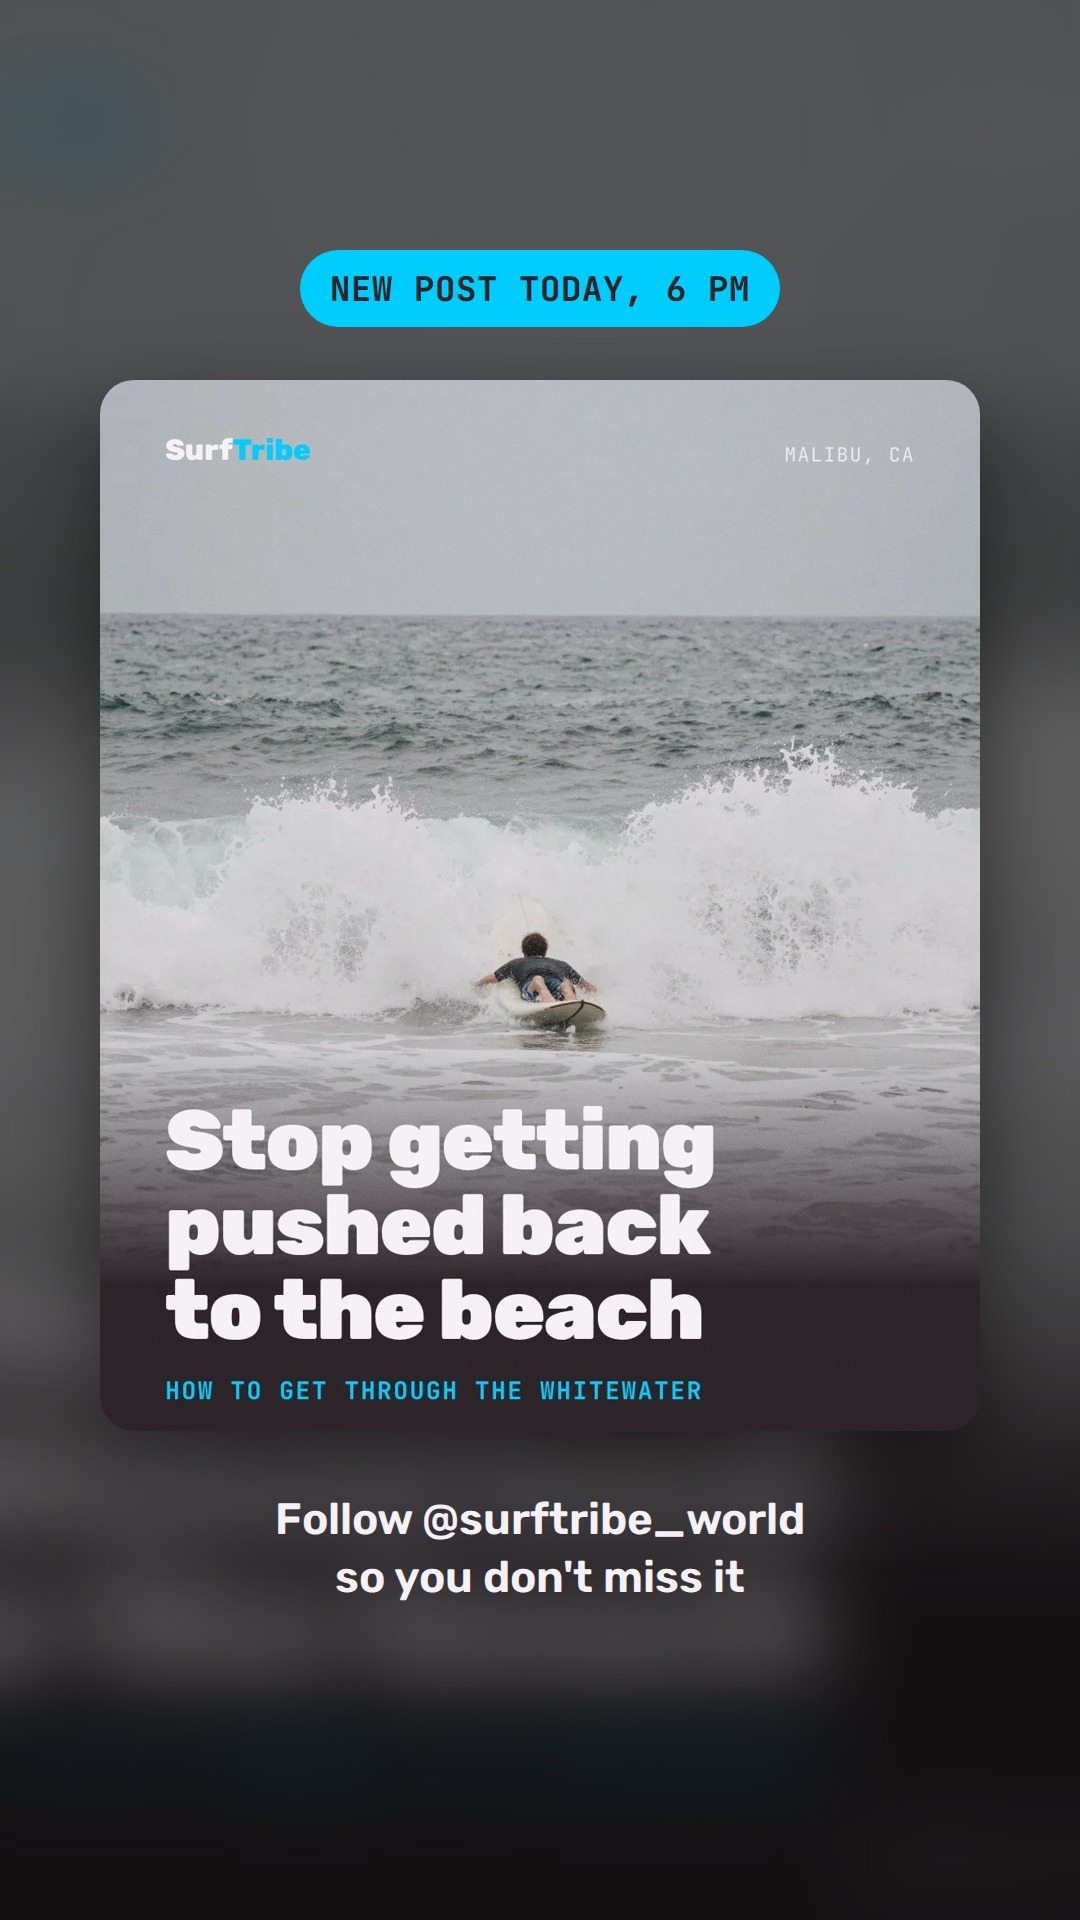
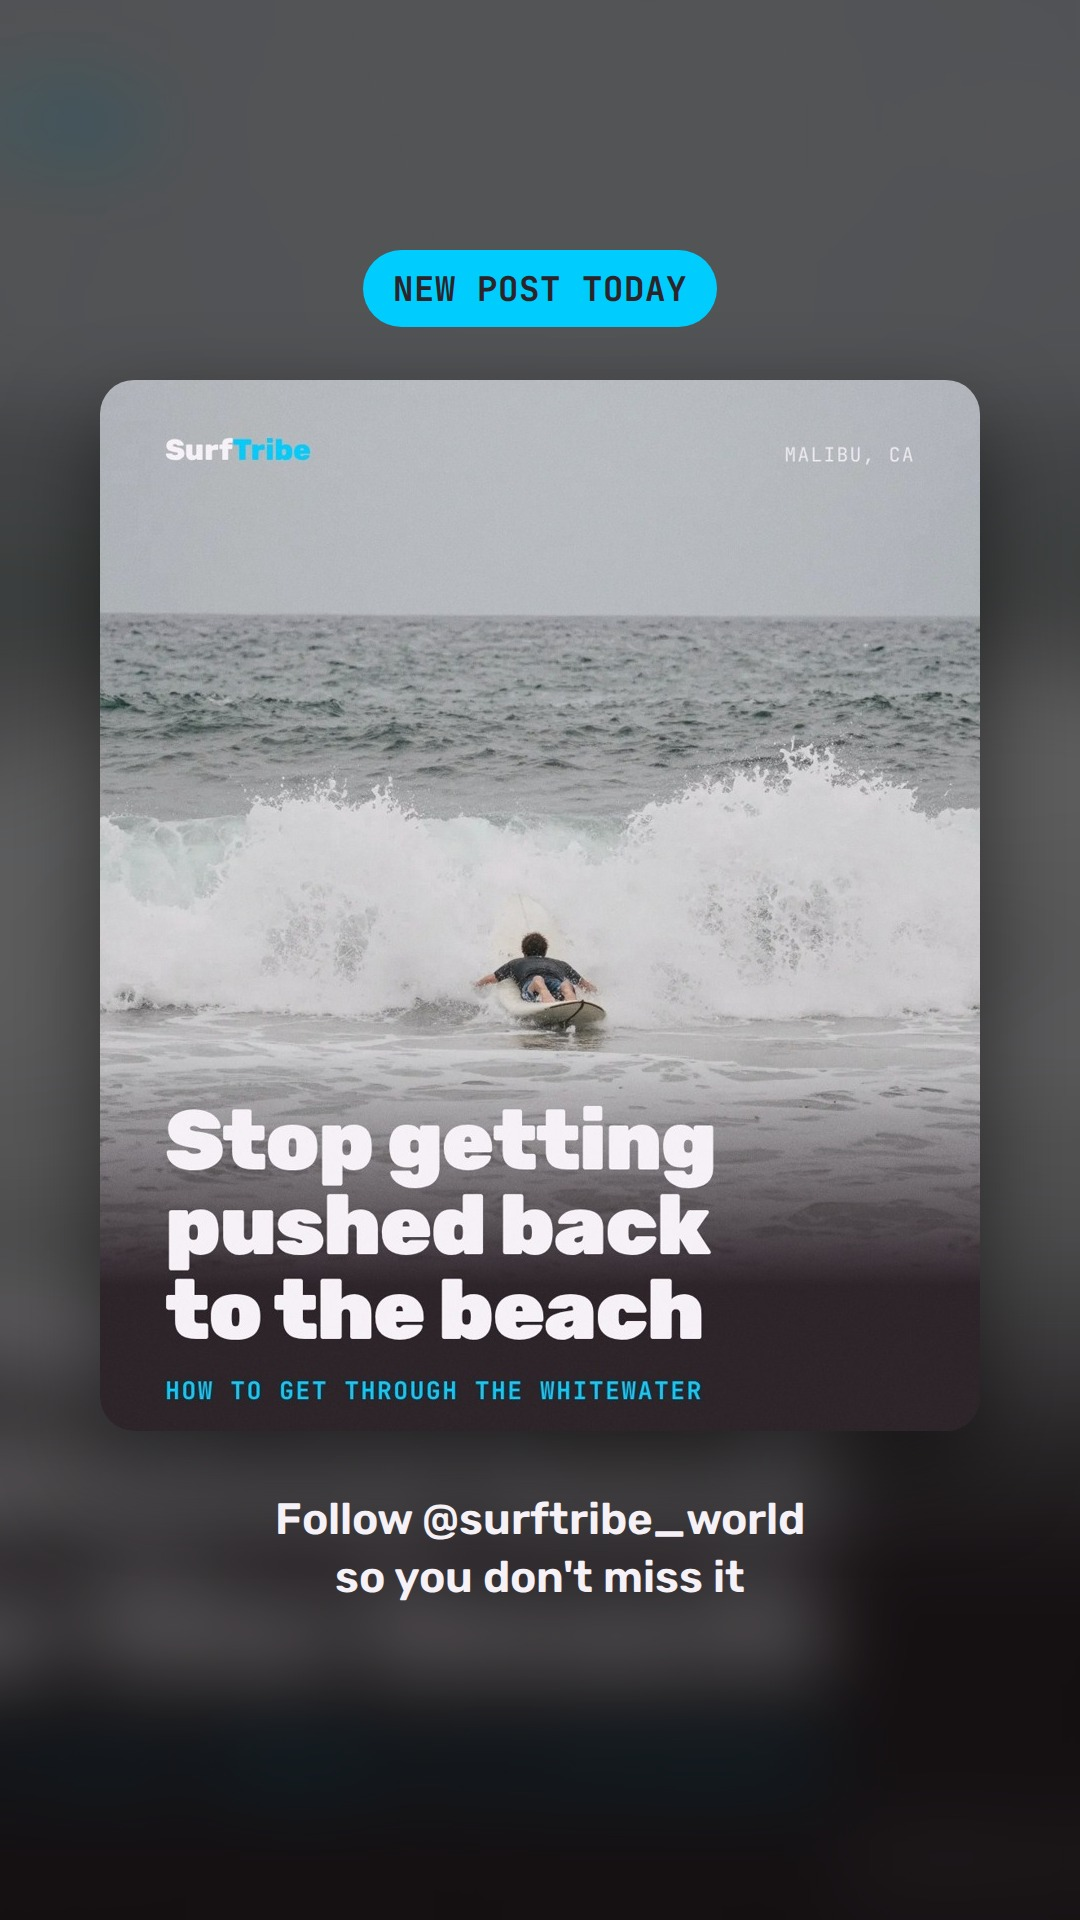
EN stories p03-p14: remove clock time from pill (NEW POST TODAY), bump story cache to v=6
Fixes #1. Pill centred at x=540 (measured 363-717). QA checklist items 38-40.

Claude-Session: https://claude.ai/code/session_01XnbpyAhss2otZgNDdvqCxE

Changed region(s): [[0.275, 0.125, 0.7333, 0.1875]]

diff --git a/QA_CHECKLIST.md b/QA_CHECKLIST.md
@@ -51,3 +51,6 @@ The reviewer checks THESE rules first, general quality second. "Looks good" is n
 35. Hoarse generic voice (rejected 15 Oct); voice is chosen by Dima from samples before the build.
 36. No mention of who we are (rejected 15 Oct).
 37. Burned-in subtitles are mandatory on reels (most viewers watch muted).
+38. Subtitles sit where subtitles belong: horizontally centred (centre x = 540, measure left and right margins, difference at most 20 px) and at ONE fixed height for the whole reel (same y on every line, lower third, around y 1360). Never shifted to the left, never jumping between beats (rejected 15 Oct). Measure the bbox of every subtitle line and report.
+39. No dead air: no gap in the voice longer than 0.6 s anywhere between the first and the last word, and no beat that holds a card longer than 0.6 s after the voice ends (rejected 15 Oct: 2 s of silence after "Save this"). Measure voice gaps on the voice-only track and report the longest one.
+40. No clock time on @surftribe_world creatives (worldwide audience, "6 PM" means nothing): story pill says "NEW POST TODAY" with no time (rejected 15 Oct, EN story p02). Times are fine on @surftribe_il (one time zone). Open fix: GitHub issue dmikonov/volunteer#1 (EN_p03 to EN_p14).
